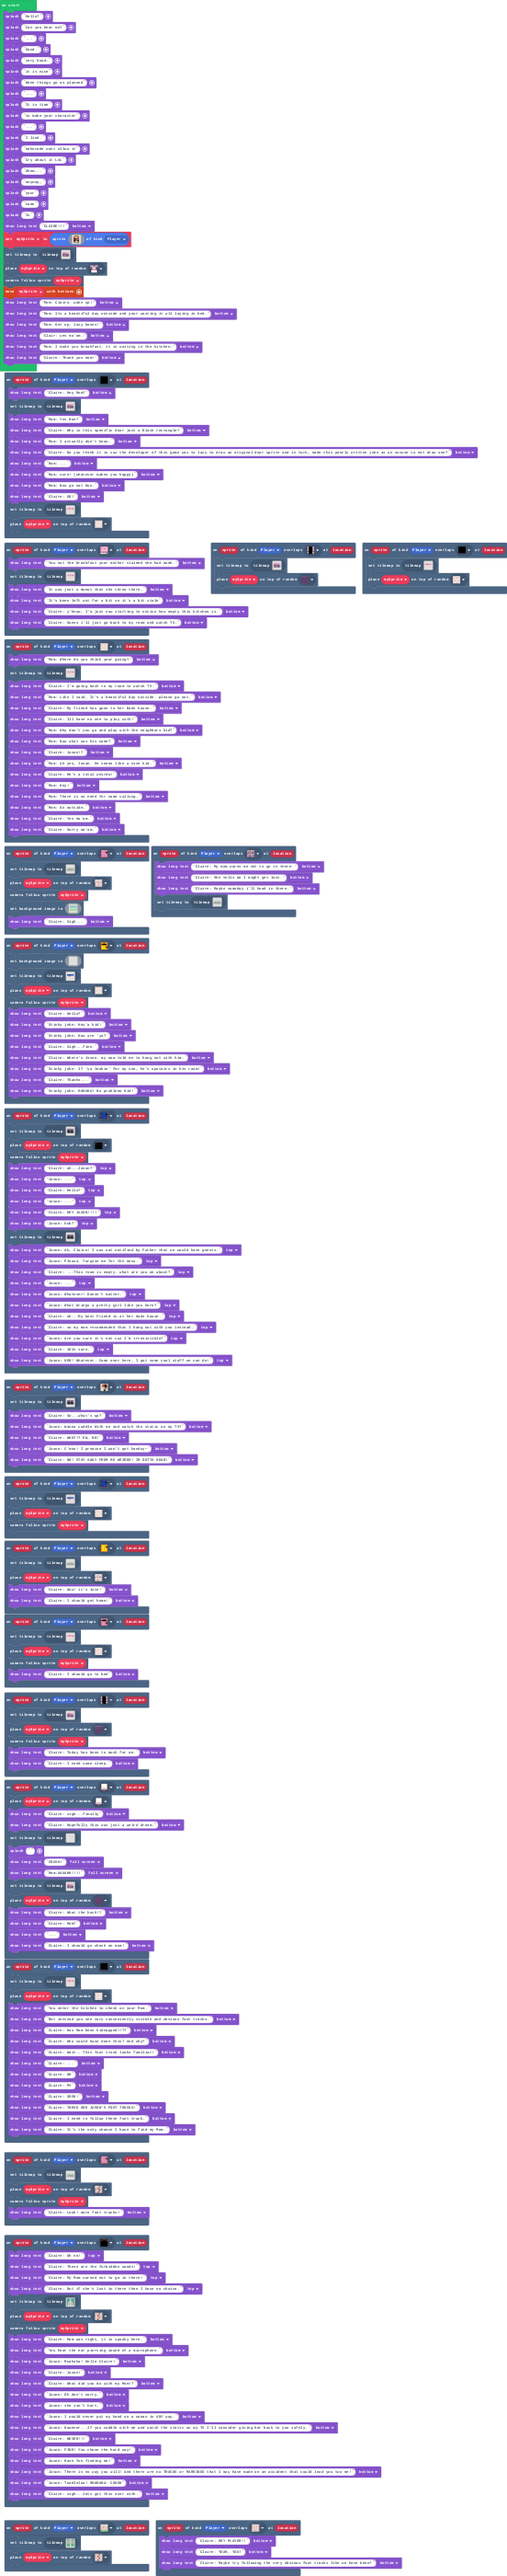
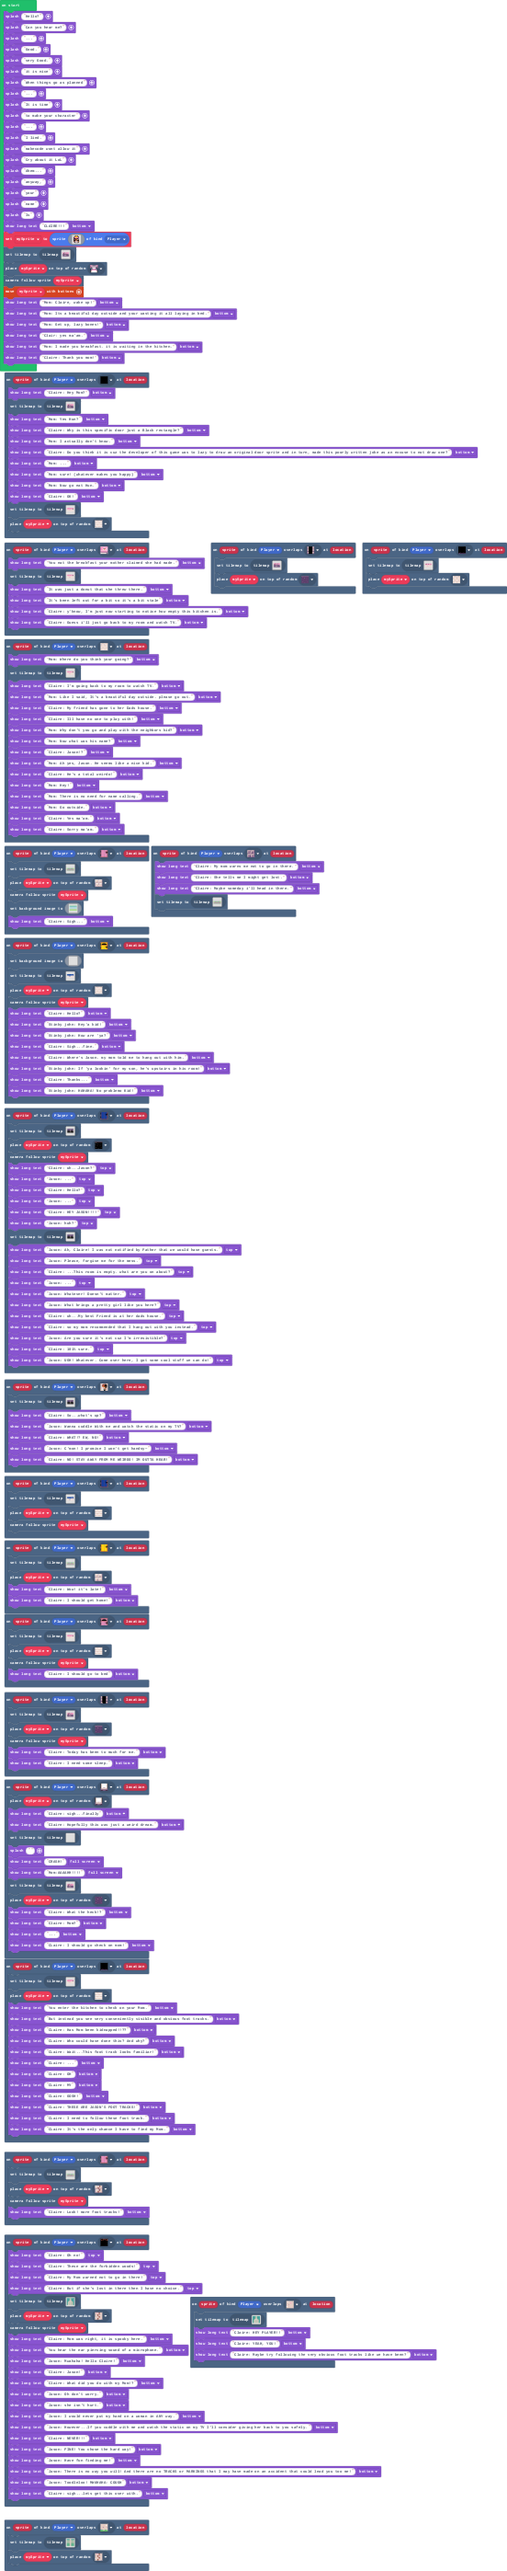
Update main.blocks, main.ts, tilemap.g.jres, tilemap.g.ts

diff --git a/tilemap.g.ts b/tilemap.g.ts
@@ -492,25 +492,6 @@ namespace myTiles {
 222...................2222
 2222222222222.222222222222
 `, [myTiles.transparency16,myTiles.tile20,myTiles.tile21,myTiles.tile22,sprites.builtin.forestTiles1,sprites.builtin.forestTiles2,sprites.builtin.forestTiles3,myTiles.tile25,myTiles.tile26,myTiles.tile27,myTiles.tile28,myTiles.tile29,myTiles.tile31,myTiles.tile34,myTiles.tile35,sprites.castle.tileGrass2,sprites.castle.tileGrass1,sprites.castle.tileGrass3,myTiles.tile33,myTiles.tile38,myTiles.tile36,myTiles.tile39,myTiles.tile40,myTiles.tile56,myTiles.tile57,myTiles.tile64,myTiles.tile80,sprites.builtin.forestTiles6,myTiles.tile97,myTiles.tile98,myTiles.tile99,myTiles.tile100,myTiles.tile101], TileScale.Sixteen);
-            case "level4":
-            case "level4":return tiles.createTilemap(hex`1000100000000000000000000000000000000000000000000000000000000000000000000000000000000000000000000000000000000000000000000000000000000000000000000000000000000000000000000000000000000000000000000000000000000000000000000000000000000000000000000000000000000000000000000000000000000000000000000000000000000000000000000000000000000000000000000000000000000000000000000000000000000000000000000000000000000000000000000000000000000000000000000000000000000000000000000000000000000000000000000000000000000000000000000000000000000000`, img`
-. . . . . . . . . . . . . . . . 
-. . . . . . . . . . . . . . . . 
-. . . . . . . . . . . . . . . . 
-. . . . . . . . . . . . . . . . 
-. . . . . . . . . . . . . . . . 
-. . . . . . . . . . . . . . . . 
-. . . . . . . . . . . . . . . . 
-. . . . . . . . . . . . . . . . 
-. . . . . . . . . . . . . . . . 
-. . . . . . . . . . . . . . . . 
-. . . . . . . . . . . . . . . . 
-. . . . . . . . . . . . . . . . 
-. . . . . . . . . . . . . . . . 
-. . . . . . . . . . . . . . . . 
-. . . . . . . . . . . . . . . . 
-. . . . . . . . . . . . . . . . 
-`, [myTiles.transparency16], TileScale.Sixteen);
             case "Forest stuff":
[1 lines of base64/hex data omitted]
 . . . . . . . . . . . . . . . . . 
@@ -530,6 +511,44 @@ namespace myTiles {
 . . . . . . . . . . . . . . . . . 
 . . . . . . . . . . . . . . . . . 
 `, [myTiles.transparency16,sprites.castle.tilePath5,myTiles.tile103,sprites.castle.tileDarkGrass3,myTiles.tile104,myTiles.tile106,myTiles.tile107,myTiles.tile108,myTiles.tile109,myTiles.tile110,myTiles.tile105], TileScale.Sixteen);
+            case "Forest that doesnt actually have any other paths2":
+            case "Forest that doesnt actually have any other paths2":return tiles.createTilemap(hex`110010000303040303030202060202030303040304030403040304020107010203040403030304030403040302010701020303030404030304030403030201070102030403040303040303030403020107010204030403040303030403040402010701020303030303030304030303020101070101020304030403030303020201010101080801020203030303040201010101010101010801010203040403020101010501010105010701020304030302010101050101010501070102030404040201010105010101050107010204030304020101010501010105010701020303040302010101050101010501070102030403030201010105010101050107010203040304020101010501010105090909020404`, img`
+. . . . . . 2 2 . 2 2 . . . . . . 
+. . . . . . 2 . . . 2 . . . . . . 
+. . . . . . 2 . . . 2 . . . . . . 
+. . . . . . 2 . . . 2 . . . . . . 
+. . . . . . 2 . . . 2 . . . . . . 
+. . . . . . 2 . . . 2 . . . . . . 
+. . . . . 2 . . . . . 2 . . . . . 
+. . . 2 2 . . . . . . . 2 2 . . . 
+. . 2 . . . . . . . . . . . 2 . . 
+. . 2 . . . 2 . . . 2 . . . 2 . . 
+. . 2 . . . 2 . . . 2 . . . 2 . . 
+. . 2 . . . 2 . . . 2 . . . 2 . . 
+. . 2 . . . 2 . . . 2 . . . 2 . . 
+. . 2 . . . 2 . . . 2 . . . 2 . . 
+. . 2 . . . 2 . . . 2 . . . 2 . . 
+. . 2 . . . 2 . . . 2 . . . 2 . . 
+`, [myTiles.transparency16,sprites.castle.tilePath5,myTiles.tile103,sprites.castle.tileDarkGrass3,myTiles.tile104,myTiles.tile106,myTiles.tile108,myTiles.tile109,myTiles.tile110,myTiles.tile111], TileScale.Sixteen);
+            case "Jasons castle":
+            case "Forest stuff1":return tiles.createTilemap(hex`110010000000000000000000000000000000000000000000000000000000000000000000000000000000000000000000000000000000000000000000000000000000000000000000000000000000000000000000000000000000000000000000000000000000000000000000000000000000000000000000000000000000000000000000000000000000000000000000000000000000000000000000000000000000000000000000000000000000000000000000000000000000000000000000000000000000000000000000000000000000000000000000000000000000000000000000000000000000000000000000000000000000000000000000000000000000000000000000000000000000000000000000`, img`
+. . . . . . . . . . . . . . . . . 
+. . . . . . . . . . . . . . . . . 
+. . . . . . . . . . . . . . . . . 
+. . . . . . . . . . . . . . . . . 
+. . . . . . . . . . . . . . . . . 
+. . . . . . . . . . . . . . . . . 
+. . . . . . . . . . . . . . . . . 
+. . . . . . . . . . . . . . . . . 
+. . . . . . . . . . . . . . . . . 
+. . . . . . . . . . . . . . . . . 
+. . . . . . . . . . . . . . . . . 
+. . . . . . . . . . . . . . . . . 
+. . . . . . . . . . . . . . . . . 
+. . . . . . . . . . . . . . . . . 
+. . . . . . . . . . . . . . . . . 
+. . . . . . . . . . . . . . . . . 
+`, [myTiles.transparency16], TileScale.Sixteen);
         }
         return null;
     })

diff --git a/main.ts b/main.ts
@@ -252,6 +252,7 @@ scene.onOverlapTile(SpriteKind.Player, assets.tile`myTile75`, function (sprite, 
     scene.cameraFollowSprite(mySprite)
 })
 scene.onOverlapTile(SpriteKind.Player, assets.tile`myTile105`, function (sprite, location) {
+    tiles.setCurrentTilemap(tilemap`Forest that doesnt actually have any other paths2`)
     game.showLongText("Claire: HEY PLAYER!!", DialogLayout.Bottom)
     game.showLongText("Claire: YEAH, YOU!", DialogLayout.Bottom)
     game.showLongText("Claire: Maybe try following the very obvious foot tracks like we have been?", DialogLayout.Bottom)
